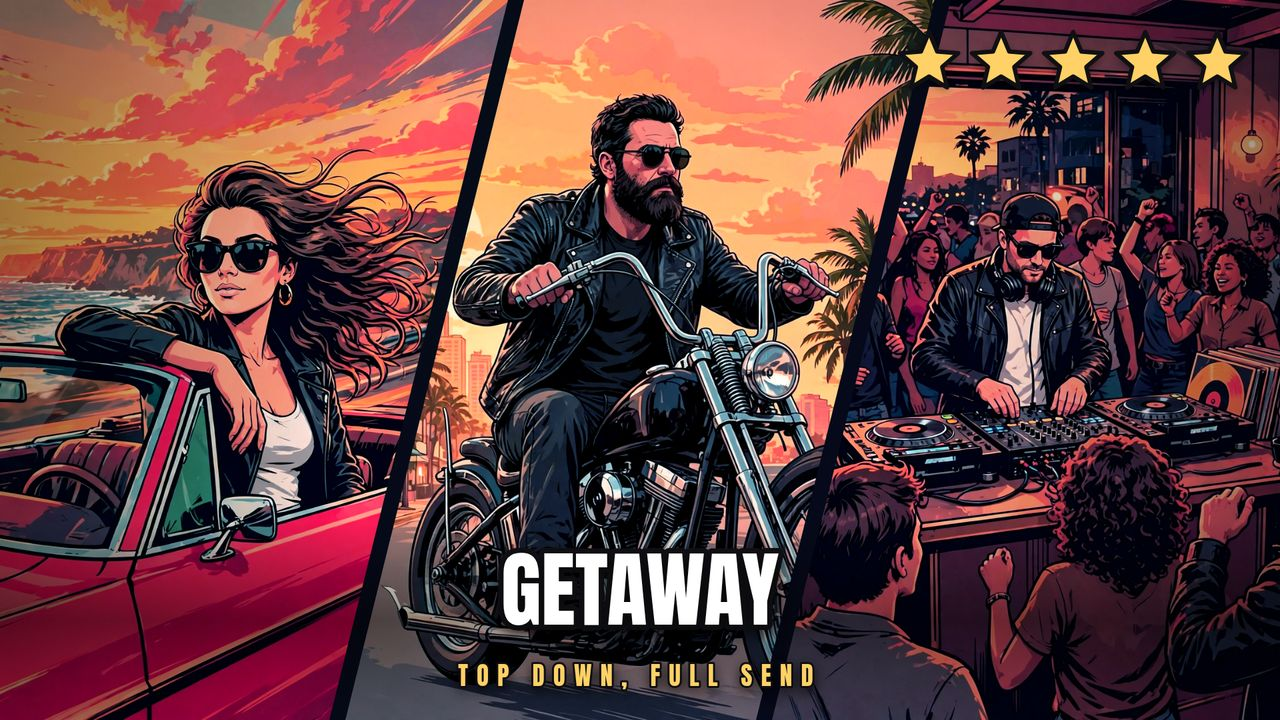
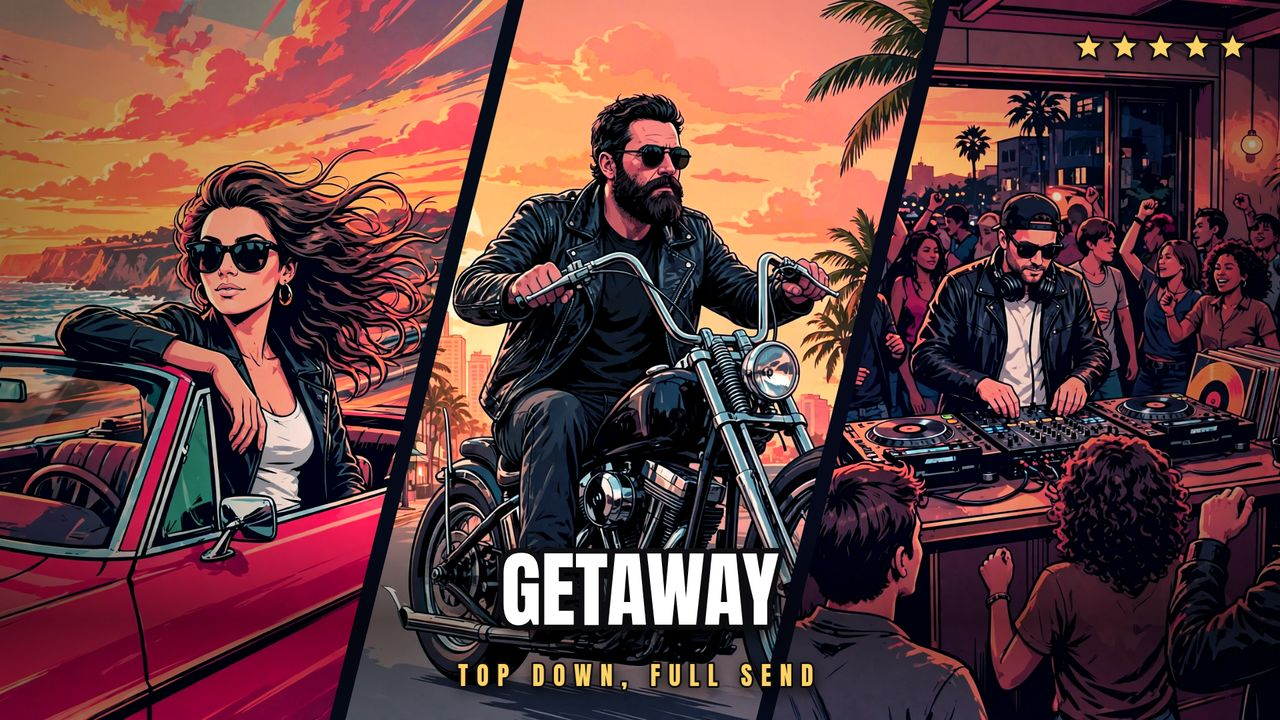
Touch-up: smaller wanted stars, heist sample now shows US dollar cash
- Wanted stars drawn at half size (width * 0.012, min 7px) so they
  decorate without dominating the cover
- heist.jpg regenerated: crew at the open vault with prominent stacks
  of US dollar bills, money bags and duffel bags full of cash
- Screenshots re-shot with the same compositions

Changed region(s): [[0.6875, 0.0306, 0.9688, 0.1222]]

diff --git a/main.ts b/main.ts
@@ -12,6 +12,9 @@
 // boulevard.jpg, pier.jpg, beach.jpg, heist.jpg, chase.jpg, club.jpg,
 // biker.jpg) are illustrated character art made with an image model for this
 // entry — cel-shaded GTA-poster style, no photographs of real people.
+// Touch-up: the wanted stars are drawn small (about half their first size),
+// and the heist sample now shows the crew with US dollar cash — stacks of
+// bills, money bags and duffel bags full of cash in front of the vault.
 //
 // Serve it locally with `node serve.ts`, then open http://localhost:8080.
 // Outside the grader's container, MAKEFUN_OUTPUT_DIR stands in for /output:

diff --git a/app/src/render.js b/app/src/render.js
@@ -420,9 +420,10 @@ function drawCaptionLettering(ctx, width, height, state) {
   ctx.restore();
 }
 
-/** Five gold wanted stars in the top-right corner, GTA style. */
+/** Five gold wanted stars in the top-right corner, GTA style. Kept small
+    (about half the original size) so they decorate without dominating. */
 function drawWantedStars(ctx, width) {
-  const starR = Math.max(14, Math.round(width * 0.024));
+  const starR = Math.max(7, Math.round(width * 0.012));
   const gap = starR * 0.35;
   const margin = Math.round(width * 0.025);
   const total = starR * 2 * 5 + gap * 4;

diff --git a/README.md b/README.md
@@ -48,4 +48,5 @@ on make.fun. Original work: no Rockstar logo, wordmark, artwork, character or
 font is used. The display font is Anton under the SIL Open Font License 1.1
 (see `app/fonts/OFL.txt`).
 
-<!-- Sample photos: an illustrated character set (cel-shaded GTA-poster style) — no photographs. -->
+<!-- Sample photos: an illustrated character set (cel-shaded GTA-poster style) — no photographs.
+     Touch-up: wanted stars resized small; heist sample now shows the crew with US dollar cash. -->
